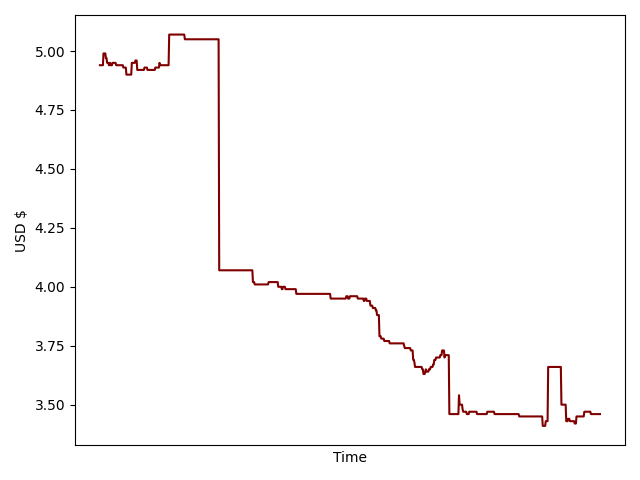
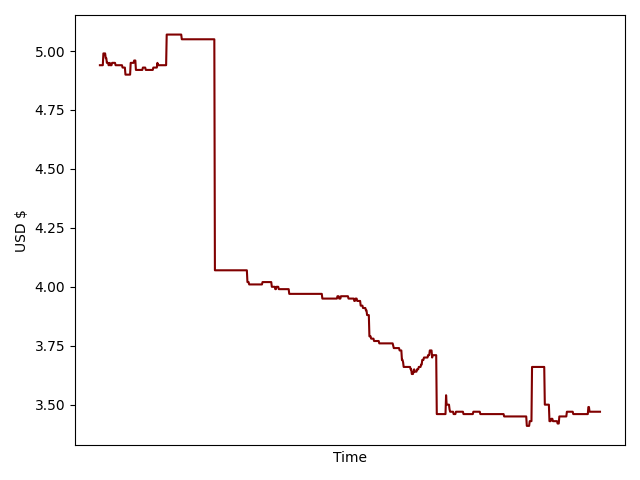
edit portfolio struct

diff --git a/cogs/portfolio.py b/cogs/portfolio.py
@@ -9,17 +9,18 @@ matplotlib.use('Agg')
 import matplotlib.pyplot as plt
 import matplotlib.dates as md
 import numpy as np
-import time
+import time, json
 
 class Portfolio:
     def __init__(self, data):
         portfoliofb = data.child('portfolio') # read firebase databases 
         crypto = data.child('crypto') # and be able to write to them
-        self.portfoliofb = portfoliofb 
-        self.crypto = crypto
+        self.portfoliofb = portfoliofb
+        self.crypto = crypto       
+
     
     def plotpf(self): # plot portfolio
-        portfolio_get = self.portfoliofb.get()
+        portfolio_get = self.portfoliofb.child("TOTAL").get()
         self.plot(portfolio_get,"Time","USD $", 'static/graph/Portfolio.png')
         
     def plotCoin(self, coin): # plot coin
